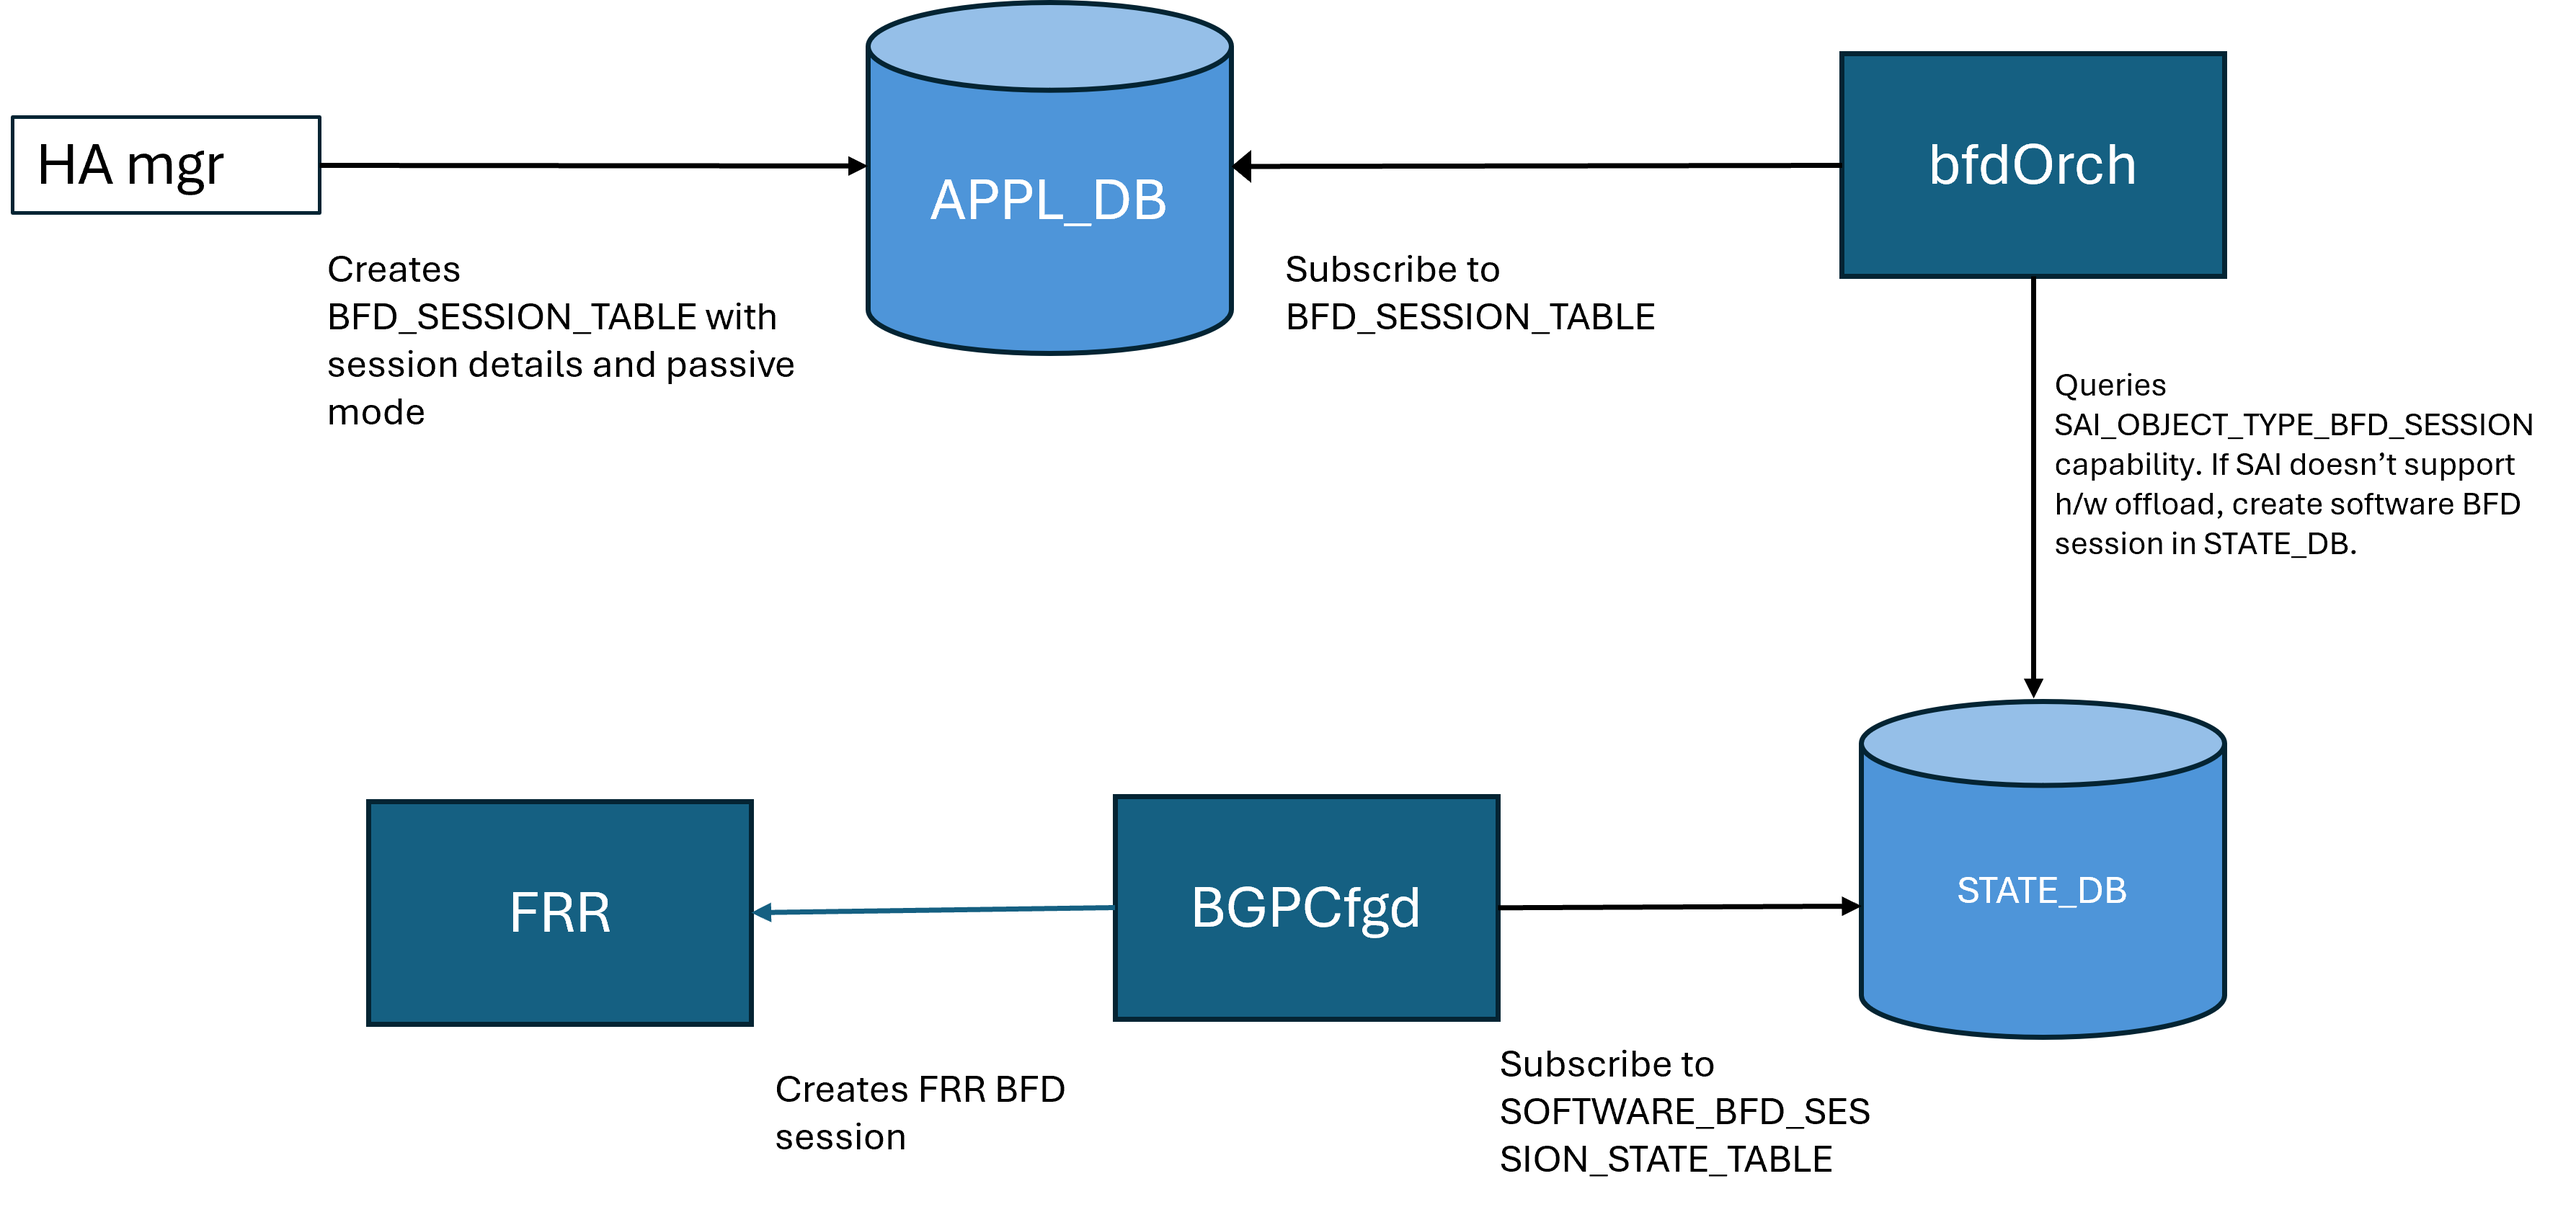
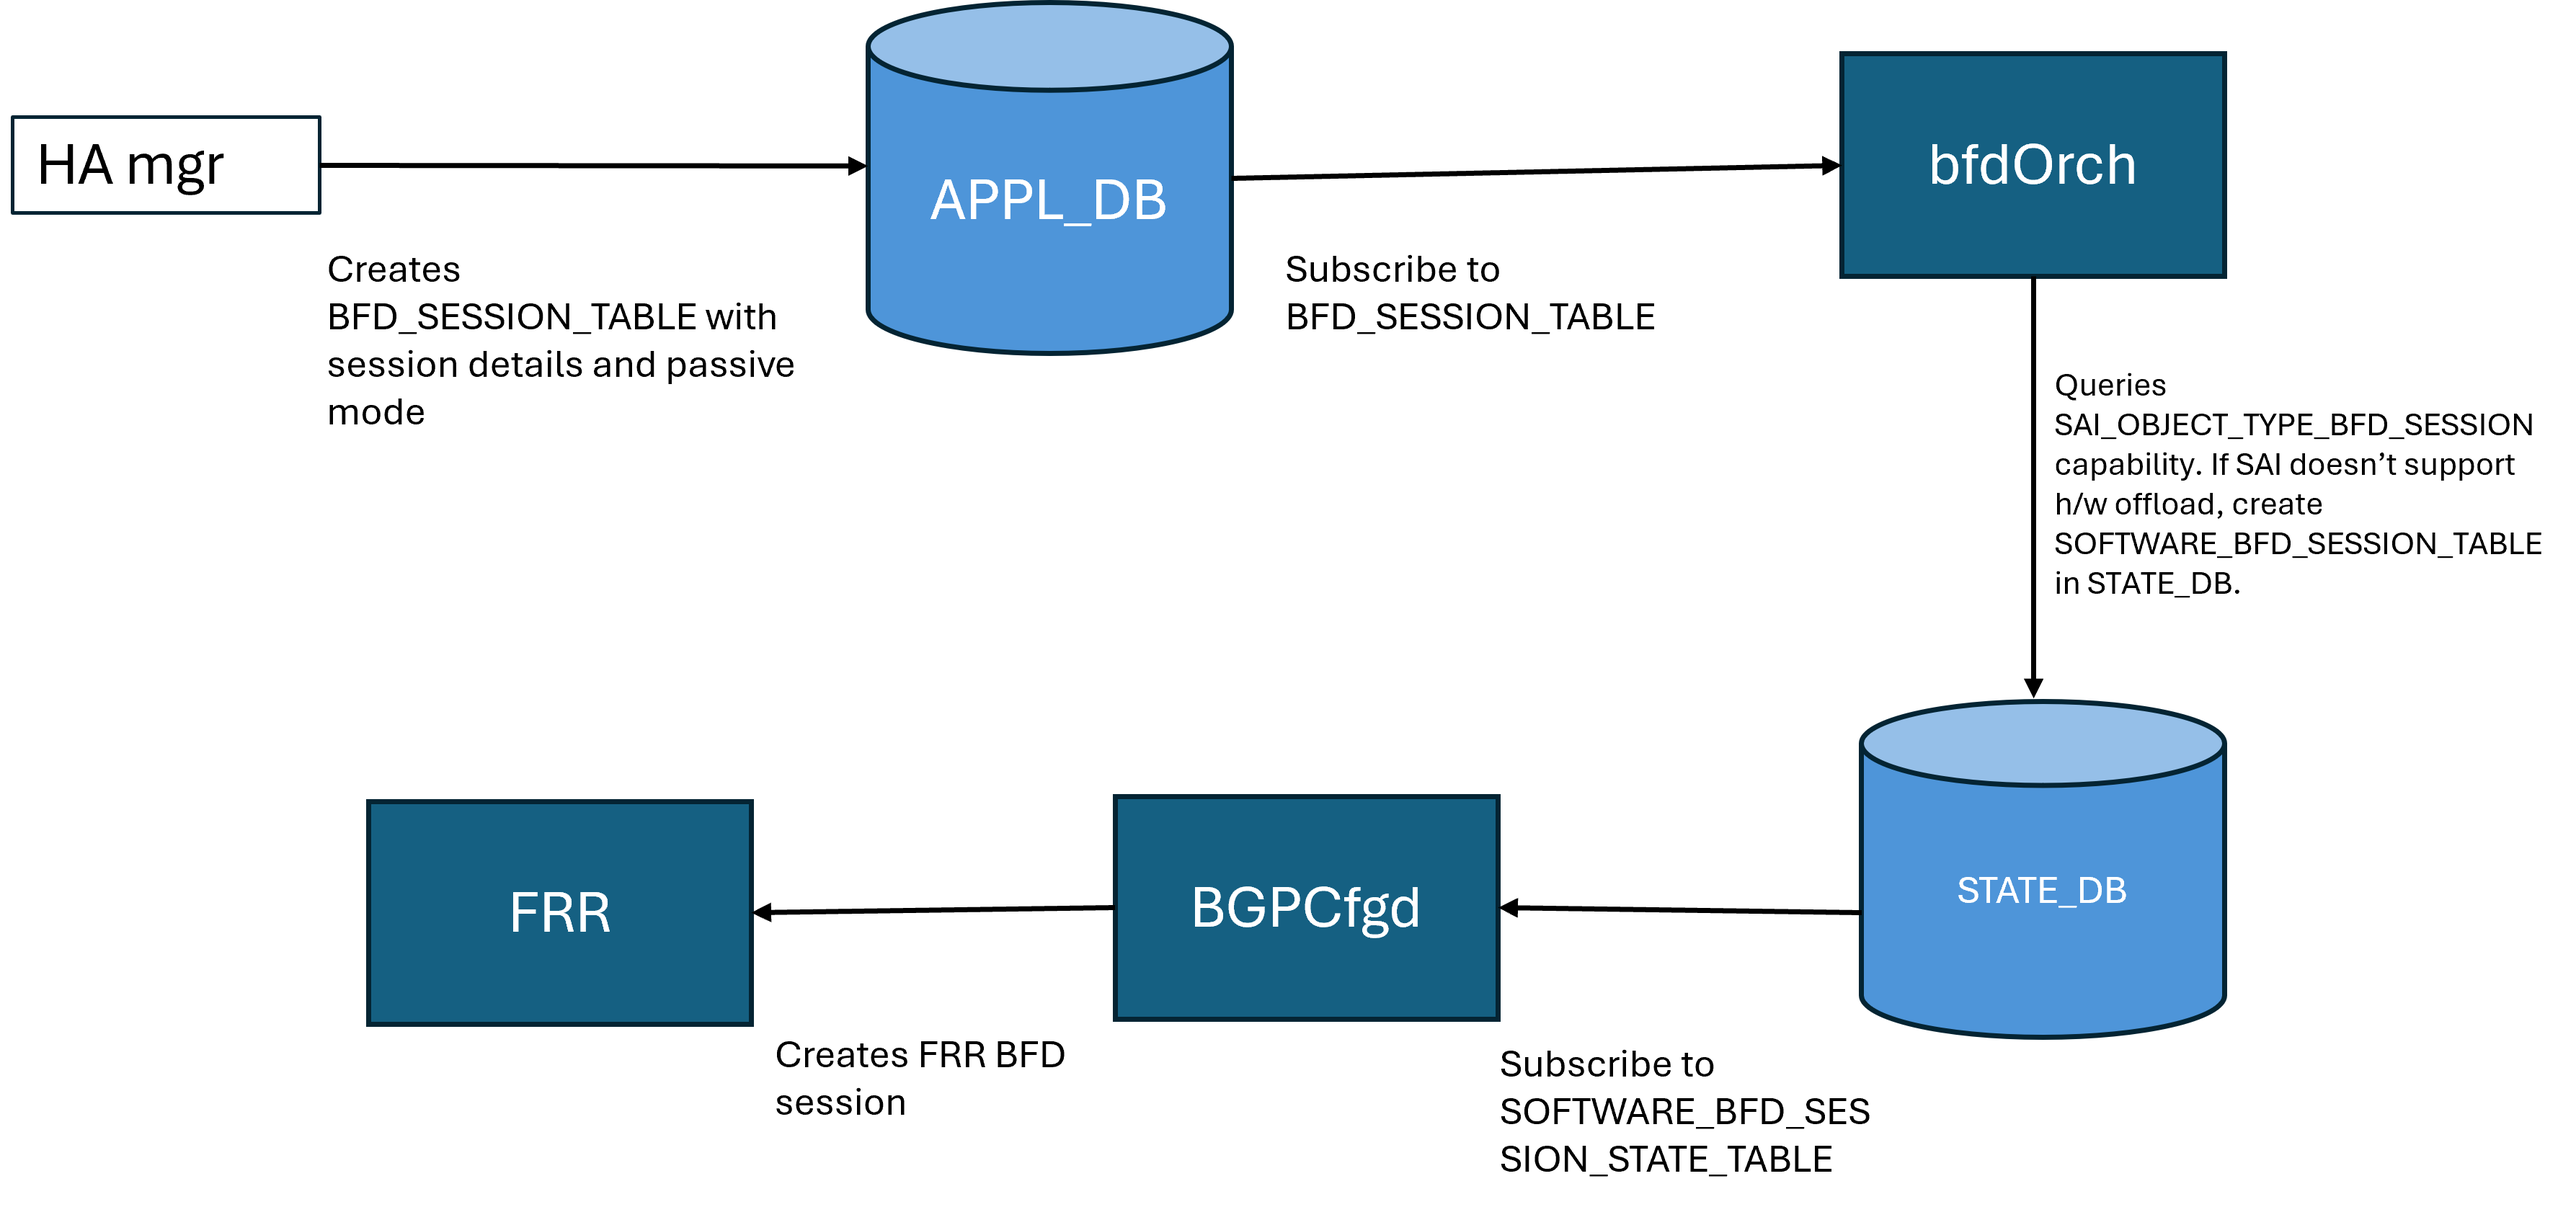
Update BFD_SESSION table in STATE_DB

diff --git a/doc/smart-switch/BFD/SmartSwitchDpuLivenessUsingBfd.md b/doc/smart-switch/BFD/SmartSwitchDpuLivenessUsingBfd.md
@@ -22,6 +22,7 @@
 |:---:|:-----------:|:---------------------:|-----------------------------------|
 | 0.1 |  03/01/2024 |     Kumaresh Perumal  | Initial version                  |
 | 0.2 |  03/12/2024 | Kumaresh Perumal | Update review comments                |
+| 0.3 | 03/13/2024 | Kumaresh Perumal | Update BFD table in STATE_DB           |
 
 # About this Manual
 This document provides general information about the NPU-DPU liveness detection using BFD probes between NPU and DPU.
@@ -82,10 +83,12 @@ Multihop BFD sessions are created between NPU and a remote DPU.
 
 ## 2.2 BFD Active-Passive mode
 
-HA manager in NPU creates VNET_ROUTE_TUNNEL_TABLE which in turn creates BFD Active session with local and peer information. NPU supports BFD hardware offload, so hardware starts
-generating BFD packets to the peer. HA manager also creates
-BFD_SESSION table in DPU with local DPU PA and peer NPU PAs. BfdOrch checks for SAI object platform capability for h/w offload. In DPU, if h/w offload is not supported, FRR is configured to trigger BFD sessions. BfdOrchagent creates BFD_SESSION entry in STATE_DB with 'passive' mode and BgpCfgd checks for the entries in the STATE_DB and configures BFD passive sessions in
+HA manager in NPU creates VNET_ROUTE_TUNNEL_TABLE which will trigger bfdOrch to create BFD Active session with local and peer information. NPU supports BFD hardware offload, so hardware starts
+generating BFD packets to the peer. HA manager also creates another
+BFD_SESSION table in DPU with local DPU PA and peer NPU PAs. BfdOrch checks for SAI object platform capability for h/w offload. In DPU, if h/w offload is not supported, FRR is configured to trigger BFD sessions. BfdOrch creates SOFTWARE_BFD_SESSION_TABLE entry in STATE_DB with 'passive' mode and BgpCfgd checks for the entries in the STATE_DB and configures BFD passive sessions in
 FRR stack with local and peer information.
+
+SOFTWARE_BFD_SESSION_TABLE entry in STATE_DB has all the key fields and values from BFD_SESSION_TABLE.
 
 Trigger for HA manager to create BFD sessions will be detailed in HA HLD.
 
@@ -161,9 +164,9 @@ When HA manager receives HA config update, it will create VNET Route tunnel tabl
 
 ## 2.6 NPU-DPU midplane state change and BFD session update
 
-When NPU-DPU midplane interface goes down due to some trigger or platform changes, PMON module updates the midplane NetDev interface state in DPU_STATE DB. HA manager listens to NetDev interface state in DPU_STATE DB and updates the NPU-DPU dataplane interface corresponding to that DPU. This will bring down the local and remote BFD sessions between NPU and DPU.
+When NPU-DPU midplane interface goes down due to some trigger or platform changes, PMON module updates the midplane NetDev interface state in DPU_STATE DB. HA manager listens to NetDev interface state in DPU_STATE DB and updates the NPU-DPU dataplane interface corresponding to that DPU. This will bring down the local and remote BFD sessions between NPU and DPU. 
+Note: This is out of scope of this document, Smartswitch HA HLD will have more details as HA manager listens to all FSM changes from the controller.
 
-<img src="images/DPU_State_BFD_Changes.png">
 
 ## 2.7 VNET Route and BFD session updates
 Some of the scenarios when VIP is pointing to Local and Remote nexthops
